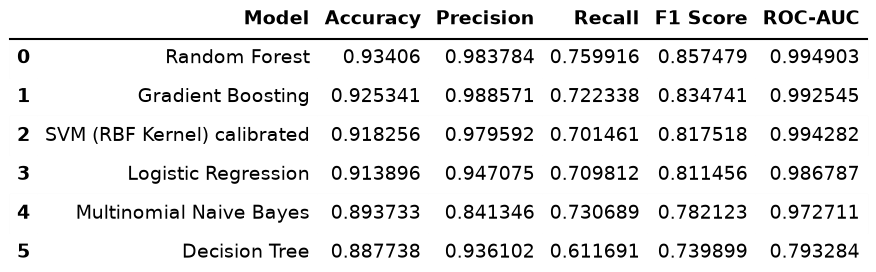
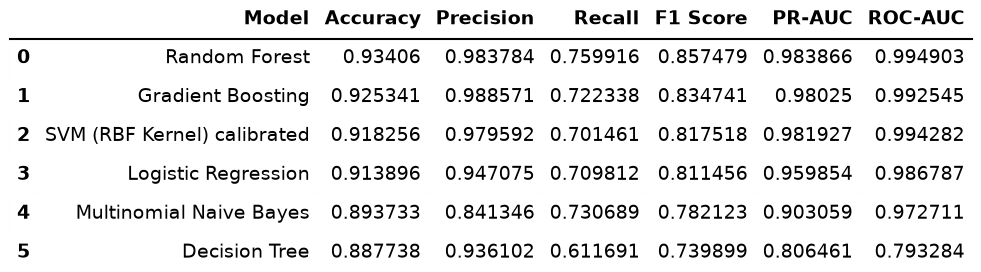
pr-auc added to the metrics and results table plus addition of TODOs.

diff --git a/utils.py b/utils.py
@@ -6,8 +6,7 @@ import os
 import pandas as pd
 import random
 import splitfolders
-from sklearn.metrics import accuracy_score, precision_score, recall_score, f1_score, roc_auc_score
-
+from sklearn.metrics import accuracy_score, precision_score, recall_score, f1_score, roc_auc_score, auc, precision_recall_curve
 
 
 def setup_spam_corpus(raw_data_dir: Path, force_download: bool = False):
@@ -258,7 +257,8 @@ def evaluate_model(name, y_true, y_pred, y_prob):
         "Precision": precision_score(y_true, y_pred),
         "Recall": recall_score(y_true, y_pred),
         "F1 Score": f1_score(y_true, y_pred),
-        "ROC-AUC": roc_auc_score(y_true, y_prob)
+        "PR-AUC": auc(precision_recall_curve(y_true, y_prob)[1], precision_recall_curve(y_true, y_prob)[0]),
+        "ROC-AUC": roc_auc_score(y_true, y_prob)    
     }
 
     print(f"Evaluation Metrics for {name}:")

diff --git a/README.md b/README.md
@@ -39,12 +39,28 @@ Spam Classifier/
 
 ## Results
 
-TODO
+**6 models** were trained on the dataset with **cross validation**, all being adjusted for the class imbalance dataset. The models were scored on accuracy, precision, recall, F1 Score, ROC-AUC and PR-AUC. Because of the imbalanced nature of the dataset, we place a **heavy emphasis on metrics** of **Precision, Recall, F1 score and PR-AUC**.
+
+| Model | Accuracy | Precision | Recall | F1 Score | ROC-AUC | PR-AUC | Notes |
+|---|---:|---:|---:|---:|---:|---:|---:|
+| Random Forest | 0.934 | 0.984 | 0.759 | 0.857 | 0.995 | 0.984 | TODO
+| Gradient Boosting | 0.925 | 0.988 | 0.722 | 0.835 | 0.992 | 0.980 | TODO
+| SVM (RBF Kernel) calibrated | 0.918 | 0.979 | 0.701 | 0.817 | 0.994 | 0.982 | TODO
+| Logistic Regression | 0.914 | 0.947 | 0.709 | 0.811 | 0.987 | 0.959 | TODO
+| Multinomial Naive Bayes | 0.894 | 0.841 | 0.731 | 0.782 | 0.972 | 0.903 | TODO
+| Decision Tree | 0.888 | 0.936 | 0.612 | 0.739 | 0.793 | 0.806 | TODO
 
 ## Key findings
 
-Due to the text nature of the dataset, TDIF was used.
-TODO
+- Due to the text nature of the dataset, TDIF was used.
+
+- TODO: Discuss the problem of imbalance and why accracy is useless. What metrics were used instead?
+
+- TODO: Which model performed the best overall? What model was choosen?
+
+- TODO: Precision-Recall Trade Off: Which model has a higher precision, does that affect the recall? Vice versa.
+
+- TODO: Training SVM took forever. Dataset sampling could have lowered the dataset making training and inference faster.
 
 ## Future Work
 
@@ -65,24 +81,13 @@ python -m venv .venv
 source .venv/bin/activate
 pip install -r requirements.txt
 
-# open 01_initial_eda to inspect the initial data loading and inspection
-# open 02_data_cleaning_and_eda.ipynb to inspect the data cleaning and in-depth EDA
-# open 03_model_pipeline.ipynb to inspect the model building and evaluation process
+# open and inspect each file in order
+# 01_initial_eda --> initial data loading and inspection
+# 02_data_cleaning_and_eda.ipynb --> data cleaning and in-depth EDA
+# 03_model_pipeline.ipynb --> model building and evaluation process
 ```
 
 ## Acknowledgements and References
 
 - Apache SpamAssassin corpus maintainers.
 - scikit-learn documentation.
-
-
-
-
-## 5. Results
-
-### 5.1 Baseline Metrics Snapshot
-| Model | Accuracy | Spam Precision | Spam Recall | Spam F1 | Notes |
-|------|----------|----------------|-------------|---------|-------|
-| Logistic Regression | TODO | TODO | TODO | TODO | Initial baseline |
-| Linear SVM | TODO | TODO | TODO | TODO | Initial baseline |
-| Random Forest | TODO | TODO | TODO | TODO | Initial baseline |
